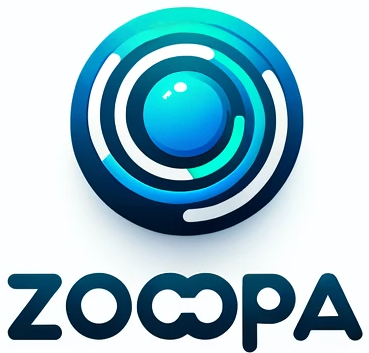
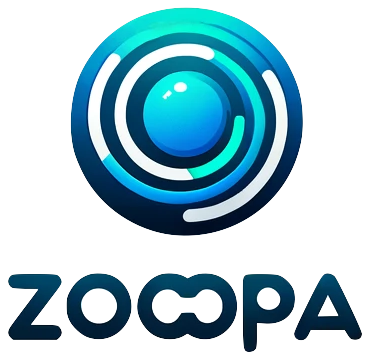
ready to deploy

diff --git a/src/pages/Login.js b/src/pages/Login.js
@@ -43,7 +43,11 @@ function LoginCard() {
         <Card sx={{ padding: "1rem", maxWidth: "350px", width: "100%" }}>
           <CardContent>
             <Box display="flex" justifyContent="center">
-              <img src="logo.png" alt="Logo" style={{ marginTop: "1rem" }} />
+              <img
+                src="zoopa.png"
+                alt="Logo"
+                style={{ marginTop: "1rem", width: "100px" }}
+              />
             </Box>
             <Typography
               display="flex"
